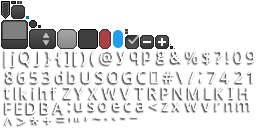
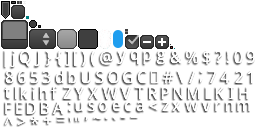
Goals Buttons UI looking better

Changed region(s): [[0.375, 0.2188, 0.4375, 0.4062]]

diff --git a/taxe/core/src/fvs/taxe/controller/GoalController.java b/taxe/core/src/fvs/taxe/controller/GoalController.java
@@ -3,6 +3,7 @@ package fvs.taxe.controller;
 import com.badlogic.gdx.graphics.Color;
 import com.badlogic.gdx.graphics.g2d.BitmapFont.TextBounds;
 import com.badlogic.gdx.scenes.scene2d.Group;
+import com.badlogic.gdx.scenes.scene2d.ui.ImageTextButton;
 import com.badlogic.gdx.scenes.scene2d.ui.TextButton;
 import com.badlogic.gdx.scenes.scene2d.utils.Align;
 
@@ -128,7 +129,7 @@ public class GoalController {
             if (!goal.getComplete()) {
 
                 y -= 50;
-                TextButton button = new TextButton(
+                ImageTextButton button = new ImageTextButton(
                         goal.baseGoalString() + "\n" + goal.bonusString(), context.getSkin());
                 button.getLabel().setAlignment(Align.left);
                 //The goal buttons are scaled so that they do not overlap nodes on the map, this was found to be necessary after changing the way goals were displayed
